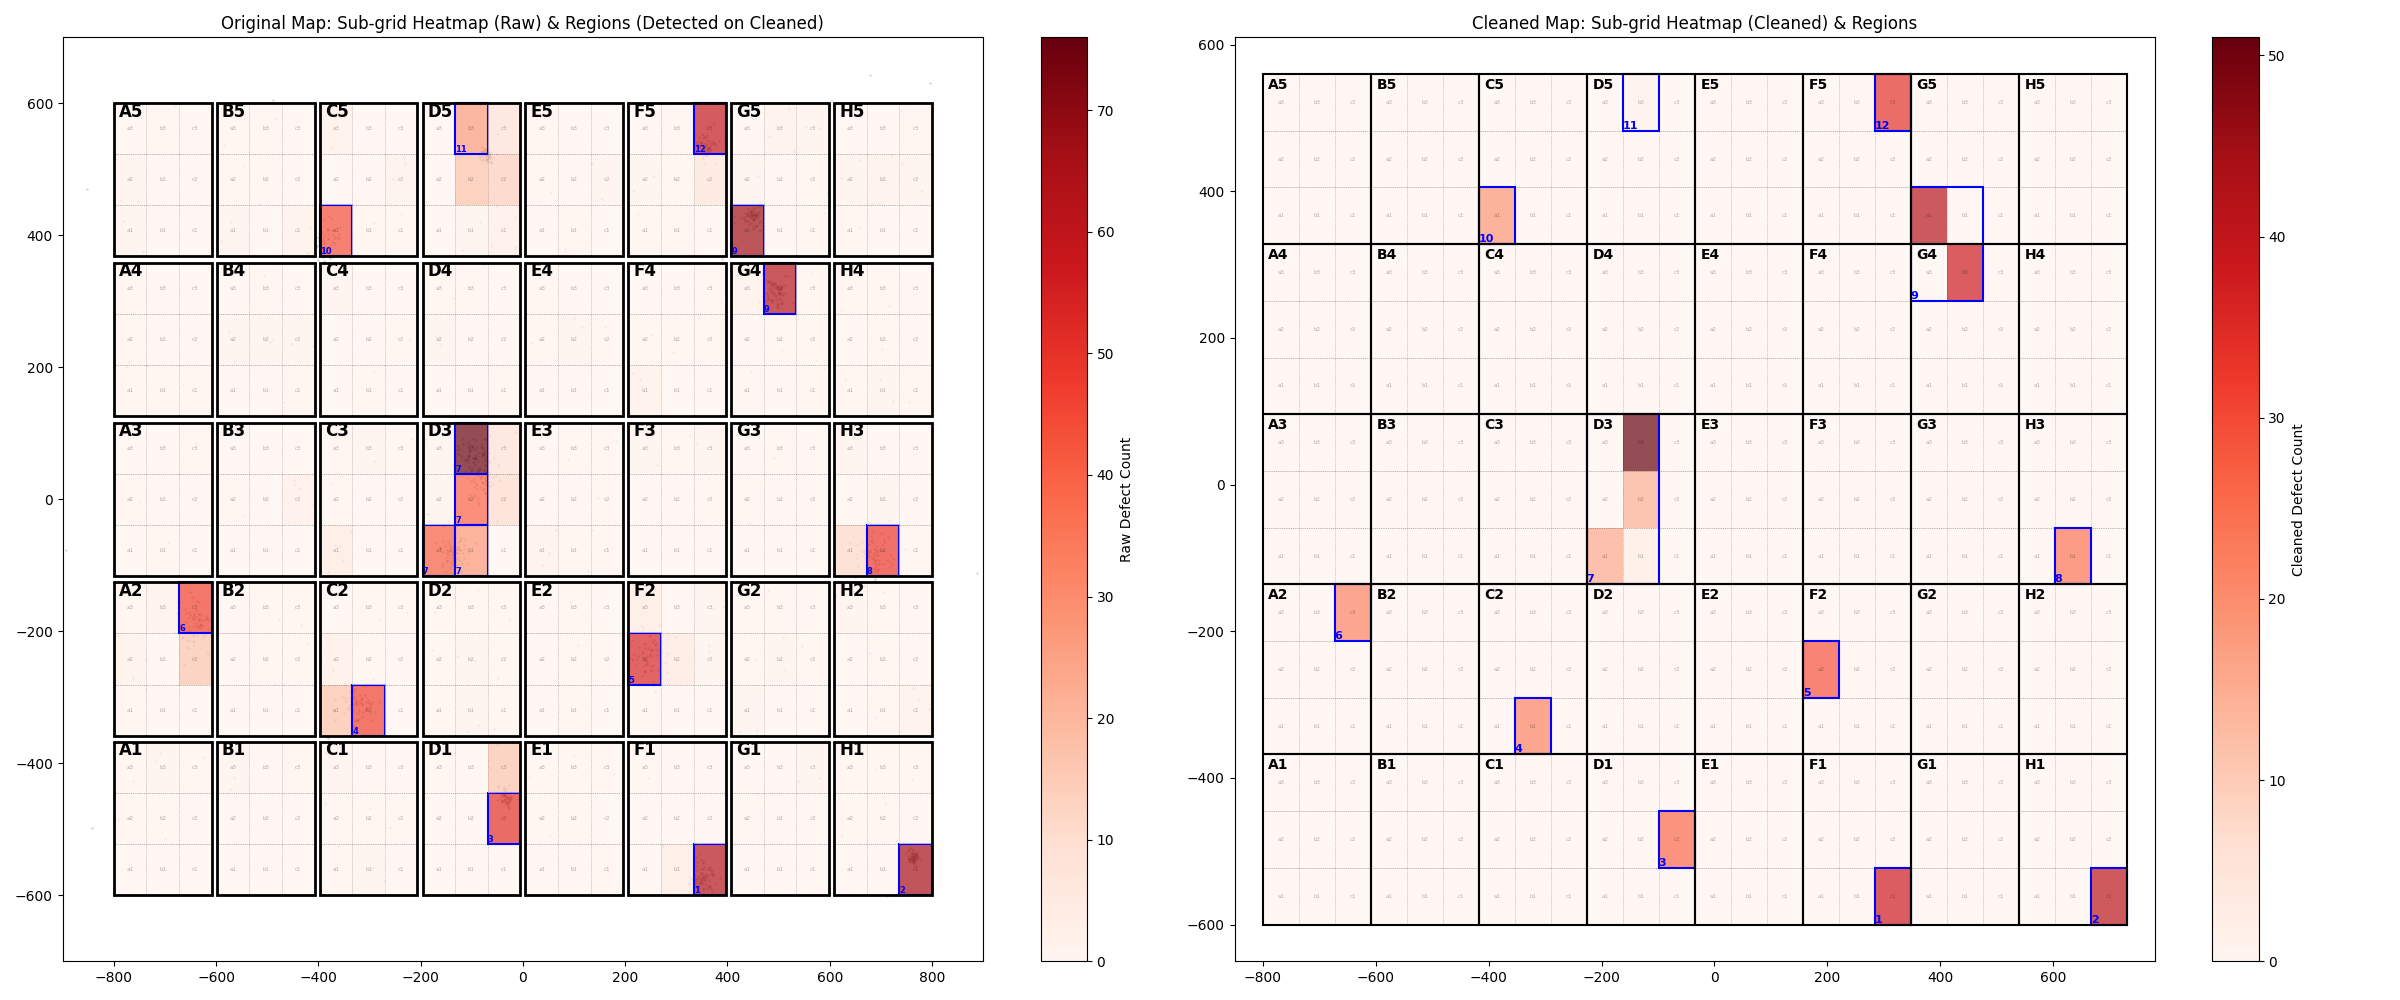
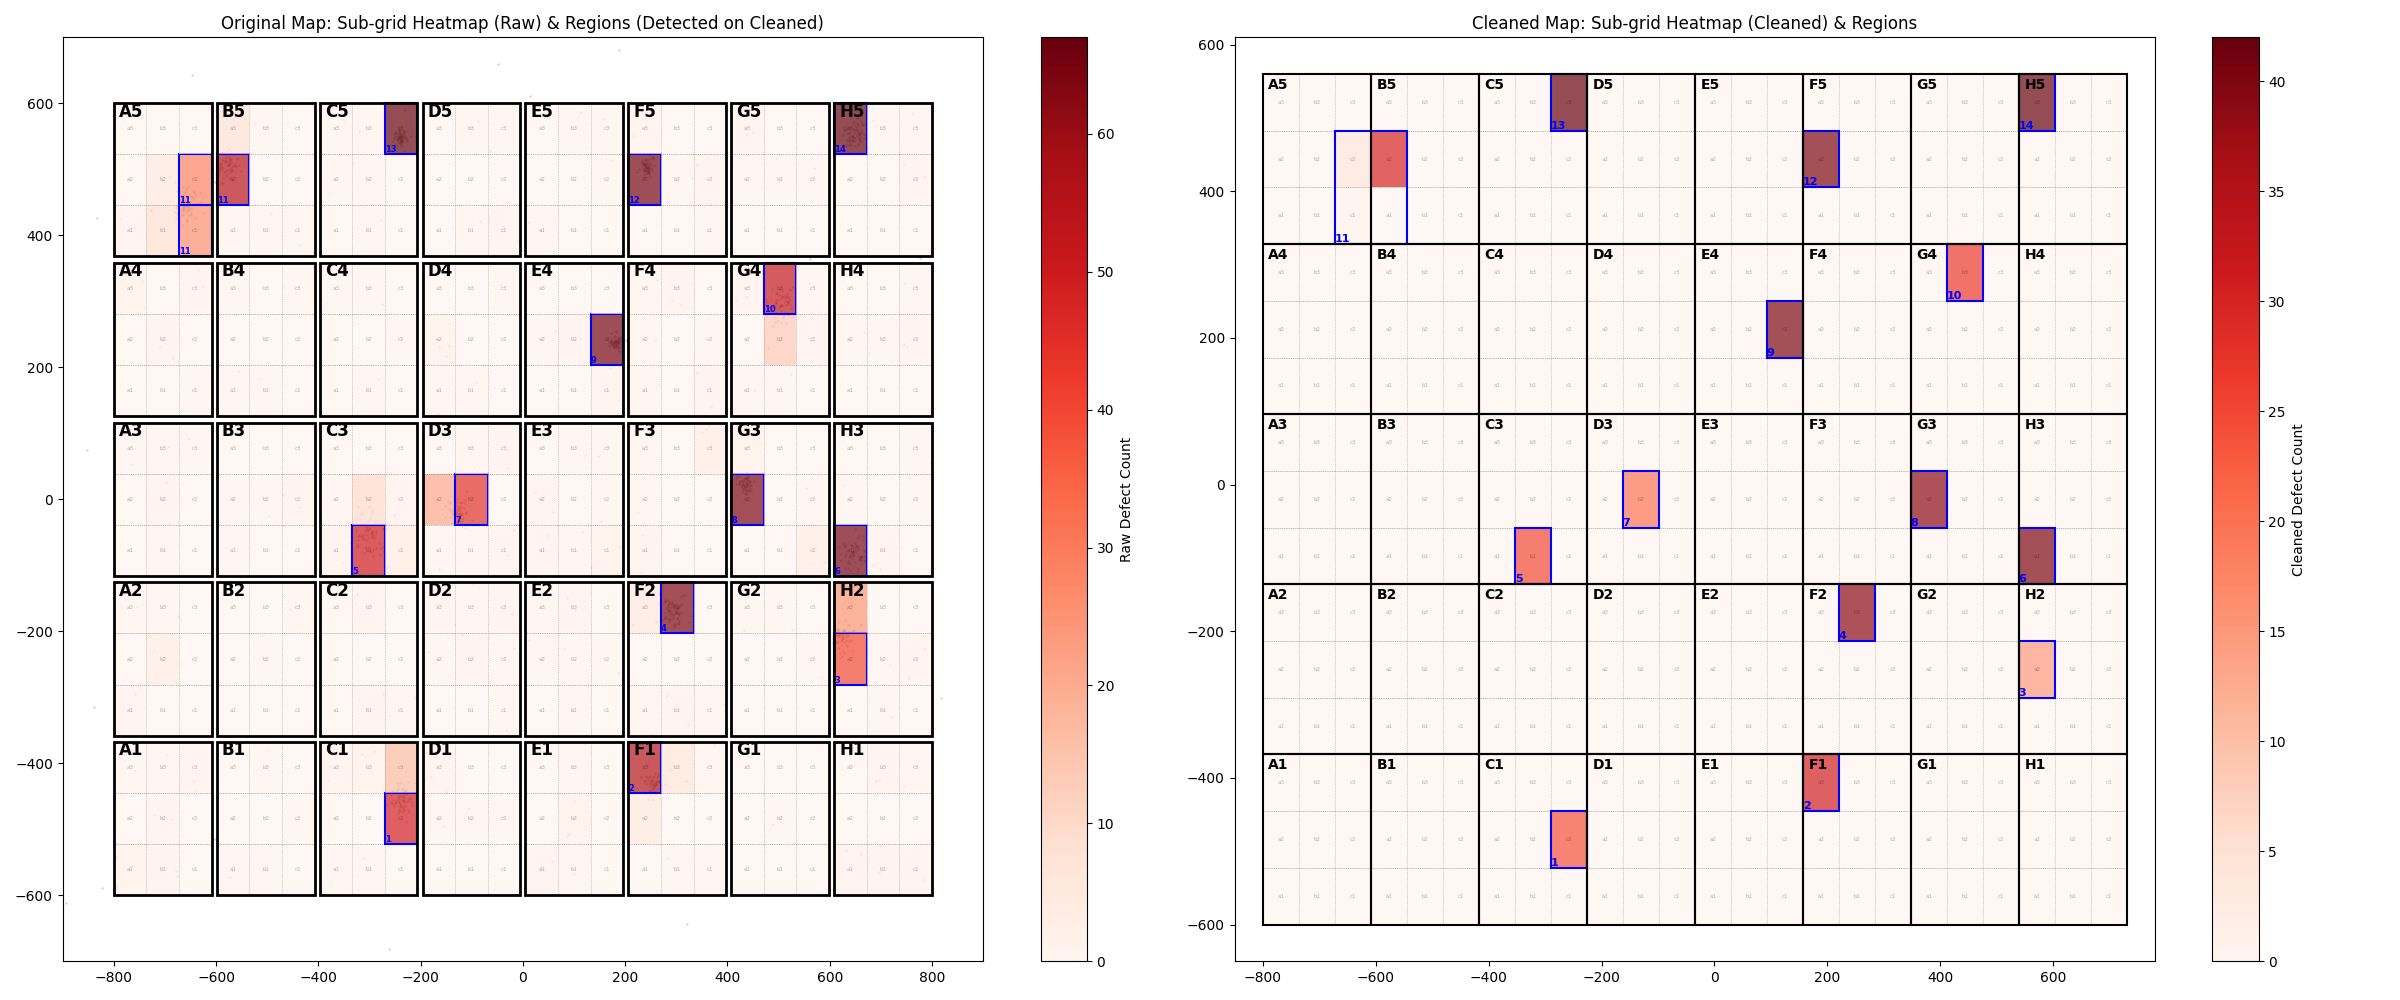
최종 결과 저장 (product_id, y)

diff --git a/run_simulation.py b/run_simulation.py
@@ -345,5 +345,71 @@ def main():
         
     db.close()
 
+    # 9. Region-based Product Analysis (Export)
+    print("9. Exporting Region-based Product Analysis...")
+    from datetime import datetime
+    
+    # Filter regions with >= 2 sub-grids
+    target_regions = stats_df.filter(pl.col("sub_grid_count") >= 2)
+    
+    if not target_regions.is_empty():
+        # Create timestamped directory
+        timestamp = datetime.now().strftime("%Y%m%d%H%M")
+        export_dir = os.path.join("results", timestamp)
+        os.makedirs(export_dir, exist_ok=True)
+        print(f"   Exporting to {export_dir}...")
+        
+        # Map sub_grid_id to cell object for bounds
+        cell_map = {c.sub_grid_id: c for c in grid_cells}
+        
+        for row in target_regions.iter_rows(named=True):
+            rid = row["region_id"]
+            sub_grids = row["sub_grids"] # List of sub_grid_ids
+            
+            # Collect all points belonging to this region
+            # We filter df_clean_defects based on sub-grid bounds
+            
+            region_points = []
+            
+            for sid in sub_grids:
+                cell = cell_map.get(sid)
+                if not cell:
+                    continue
+                    
+                # Clean bounds
+                min_x = cell.clean_x - cell.width / 2
+                max_x = cell.clean_x + cell.width / 2
+                min_y = cell.clean_y - cell.height / 2
+                max_y = cell.clean_y + cell.height / 2
+                
+                # Filter points in this sub-grid
+                # Note: df_clean_defects has 'x', 'y' as cleaned coordinates
+                # and 'product_id' from original data
+                
+                points_in_cell = df_clean_defects.filter(
+                    (pl.col("x") >= min_x) & (pl.col("x") < max_x) &
+                    (pl.col("y") >= min_y) & (pl.col("y") < max_y)
+                )
+                
+                if not points_in_cell.is_empty():
+                    region_points.append(points_in_cell)
+            
+            if region_points:
+                df_region_points = pl.concat(region_points)
+                
+                # Group by product_id and count
+                df_product_counts = df_region_points.group_by("product_id").agg(
+                    pl.len().alias("y")
+                ).sort("product_id")
+                
+                # Save to parquet
+                filename = f"area{rid}.parquet"
+                filepath = os.path.join(export_dir, filename)
+                df_product_counts.write_parquet(filepath)
+                print(f"   Saved {filename} ({len(df_product_counts)} products)")
+            else:
+                print(f"   Warning: No points found for Region {rid} (Cleaned Data)")
+    else:
+        print("   No regions with >= 2 sub-grids found.")
 if __name__ == "__main__":
     main()

diff --git a/generate_mock_data.py b/generate_mock_data.py
@@ -109,7 +109,8 @@ def generate_data(base_dir=".", n_defects=1000, n_outliers=50):
             defects.append({
                 "x": x,
                 "y": y,
-                "defect_type": "ClusterDefect"
+                "defect_type": "ClusterDefect",
+                "product_id": rng.choice(["PROD_A", "PROD_B", "PROD_C"])
             })
             
     # Add some random noise defects (uniform)
@@ -125,7 +126,8 @@ def generate_data(base_dir=".", n_defects=1000, n_outliers=50):
         defects.append({
             "x": x,
             "y": y,
-            "defect_type": "RandomNoise"
+            "defect_type": "RandomNoise",
+            "product_id": rng.choice(["PROD_A", "PROD_B", "PROD_C"])
         })
 
     # 3. Generate Outliers (Outside panels, in gaps or outer bounds)
@@ -137,7 +139,8 @@ def generate_data(base_dir=".", n_defects=1000, n_outliers=50):
         defects.append({
             "x": x,
             "y": y,
-            "defect_type": "Outlier"
+            "defect_type": "Outlier",
+            "product_id": rng.choice(["PROD_A", "PROD_B", "PROD_C"])
         })
 
     df_defects = pl.DataFrame(defects)

diff --git a/results/final_report.md b/results/final_report.md
@@ -13,15 +13,17 @@ Regions are detected based on the **Cleaned Defect Counts** (after noise removal
 ## Detected Regions (High Defect Density)
 | Region ID | Total Defects (Cleaned) | Sub-grid Count | Avg Defects/Grid | Sub-grids |
 |---|---|---|---|---|
-| 7 | 85 | 4 | 21.25 | ['D3-a1', 'D3-b1', 'D3-b2', 'D3-b3'] |
-| 9 | 80 | 2 | 40.00 | ['G4-b3', 'G5-a1'] |
-| 2 | 41 | 1 | 41.00 | ['H1-c1'] |
-| 1 | 38 | 1 | 38.00 | ['F1-c1'] |
-| 12 | 34 | 1 | 34.00 | ['F5-c3'] |
-| 5 | 29 | 1 | 29.00 | ['F2-a2'] |
-| 3 | 26 | 1 | 26.00 | ['D1-c2'] |
-| 8 | 24 | 1 | 24.00 | ['H3-b1'] |
-| 4 | 22 | 1 | 22.00 | ['C2-b1'] |
-| 6 | 22 | 1 | 22.00 | ['A2-c3'] |
-| 10 | 19 | 1 | 19.00 | ['C5-a1'] |
-| 11 | 2 | 1 | 2.00 | ['D5-b3'] |
+| 13 | 42 | 1 | 42.00 | ['C5-c3'] |
+| 14 | 42 | 1 | 42.00 | ['H5-a3'] |
+| 9 | 40 | 1 | 40.00 | ['E4-c2'] |
+| 12 | 40 | 1 | 40.00 | ['F5-a2'] |
+| 6 | 40 | 1 | 40.00 | ['H3-a1'] |
+| 8 | 39 | 1 | 39.00 | ['G3-a2'] |
+| 4 | 39 | 1 | 39.00 | ['F2-b3'] |
+| 11 | 35 | 3 | 11.67 | ['A5-c1', 'A5-c2', 'B5-a2'] |
+| 2 | 31 | 1 | 31.00 | ['F1-a3'] |
+| 10 | 27 | 1 | 27.00 | ['G4-b3'] |
+| 5 | 25 | 1 | 25.00 | ['C3-b1'] |
+| 1 | 24 | 1 | 24.00 | ['C1-c2'] |
+| 7 | 20 | 1 | 20.00 | ['D3-b2'] |
+| 3 | 15 | 1 | 15.00 | ['H2-a2'] |
